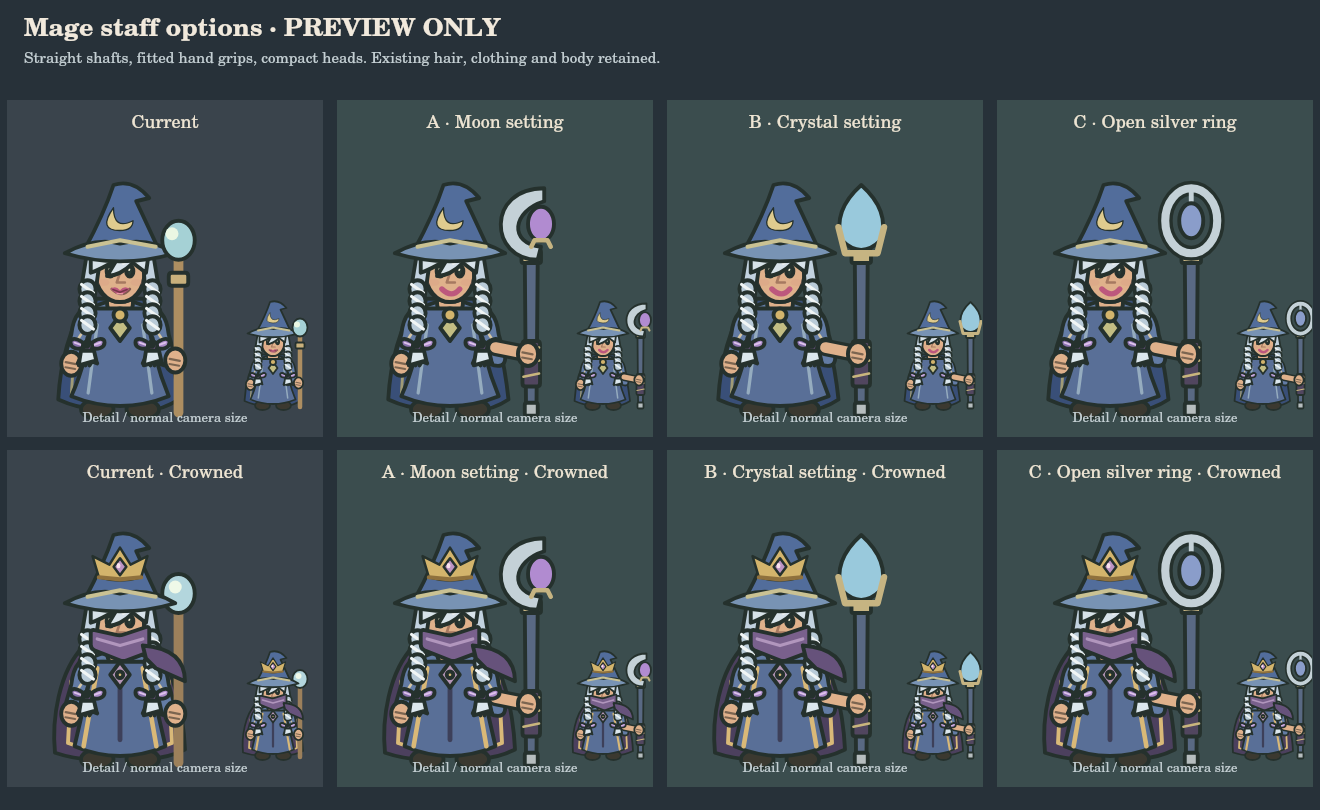
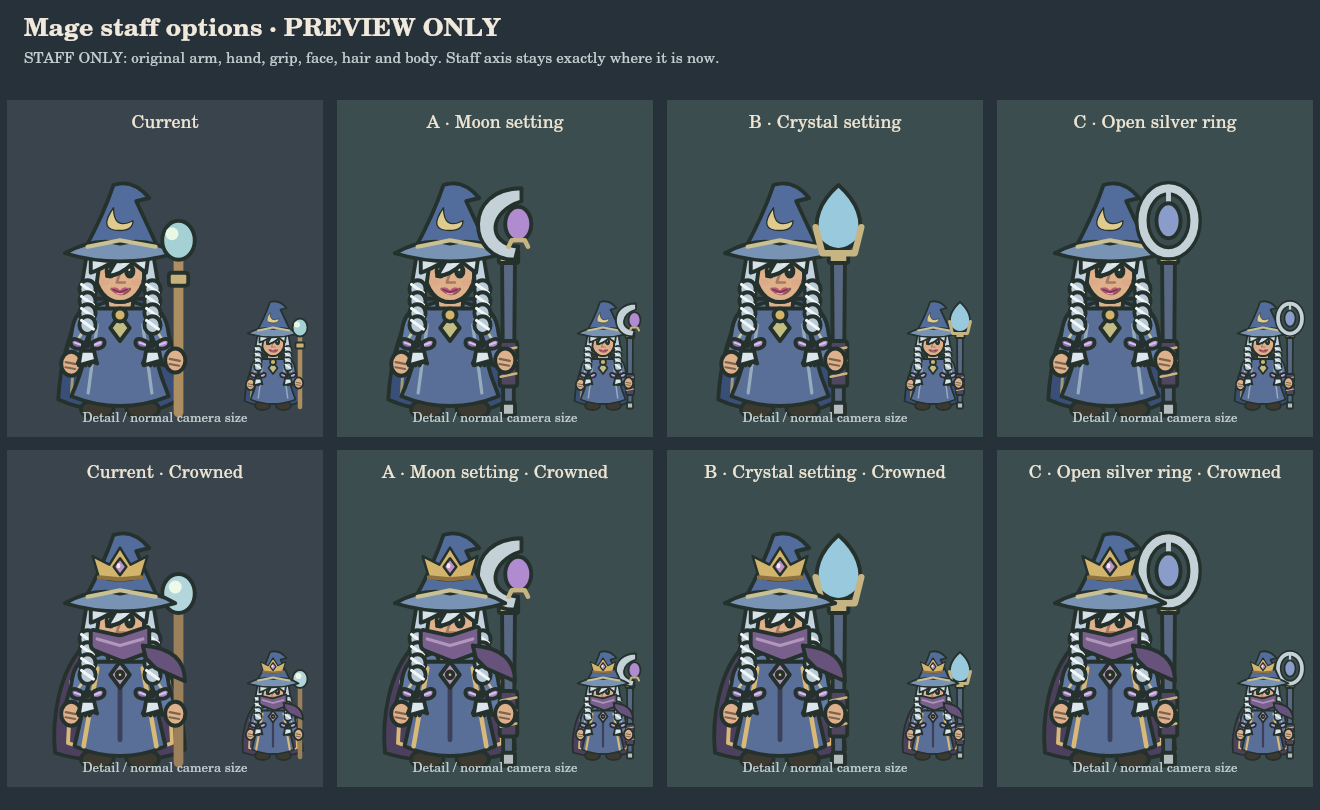
Revise preview lip shapes and keep original arms in staff-only options [skip ci]

diff --git a/tools/visual-review/mouth-staff-preview-20261020/README.md b/tools/visual-review/mouth-staff-preview-20261020/README.md
@@ -2,13 +2,17 @@
 
 Joel reported doubled mouth contours after dev.102 and asked for review before any further character changes or shading. He specifically requested lipstick follow Lyss’s original half-smile and reopened the Mage/Mira staff design.
 
-No runtime, version, assets, deployment or accepted design is changed. The preview script loads the actual procedural painter in isolated VMs and applies candidate replacements only in memory. The live source SHA is recorded in candidate-patches.json. Mouths use a single flat rose stroke along the exact original curve; no second contour, highlight or additional face shading. Veyra’s original straight mouth is similarly recolored. Crowned Mage scarf stays in place. Male faces retain their existing path/color.
+**Current revision after Joel’s review:** The broad colored-line mouth preview was rejected: it erased the shape of real lips. The replacement preview has a tapered cupid’s bow, rounded lower lip and a fine mouth seam that follow the original expression, including Lyss’s raised corner. It skips painting the original mouth entirely. No new facial shading. This revised appearance is still unselected.
+
+Joel also rejected the extended arms. All revised staff options use the original staff axis (x=18) and the exact existing arm/hand/grip code; the body and live dev.102 face stay unchanged. No NPC arms are lengthened. The prior outward-axis staff previews are rejected history in commit f0a51d80da67622c3083f21930ec58bc49332454.
+
+No runtime, version, assets, deployment or accepted design is changed. The preview script loads the actual procedural painter in isolated VMs and applies candidate replacements only in memory. The live source SHA is recorded in candidate-patches.json. The latest mouths use a filled upper/lower lip silhouette, tapered corners and one fine seam along the original expression; no old mouth underneath or extra face shading. Veyra’s original straight mouth is similarly recolored. Crowned Mage scarf stays in place. Male faces retain their existing path/color.
 
 Sheets:
-- mouths-preview.png: original expression / released dev.102 / proposed single colored mouth, including Lyss’s raised right corner. Enlarged face and small whole body beside it.
+- mouths-preview.png: original expression / released dev.102 / revised shaped lips, including Lyss’s raised right corner. Enlarged face and small whole body beside it.
 - mage-staff-preview.png: current plus A Moon setting, B Crystal setting, C Open silver ring; normal/crowned.
 - mira-staff-preview.png: current plus A Leaf crest, B Carved crook, C Amber ring. The instructor’s existing book stays in hand.
 
-These are unselected proposals. Await Joel’s mouth feedback and separate staff selections. Do not change or publish game art before his review. Retain originals and selected violet bows. Staff proposal bodies show the mouth correction for context; it has not been accepted.
+These are unselected proposals. Await Joel’s mouth feedback and separate staff selections. Do not change or publish game art before his review. Retain originals and selected violet bows. Staff proposal bodies keep the live dev.102 mouths, independently of the mouth correction preview.
 
 Additional owner request while preparing these previews: audit Frontier’s diagonal central clutter and underused four edges, propose structure redistribution and extended roads while leaving natural scenery in place; audit modestly expanding Abyss Bastion and clearing enemy/party movement lanes. This work continues independently; no preview acceptance is inferred.

diff --git a/docs/DEVELOPMENT_STATE.md b/docs/DEVELOPMENT_STATE.md
@@ -1,5 +1,7 @@
 # Current development state — 20 October 2026
 
+**Latest preview corrections:** Joel rejected the broad pink mouth-line proposal and the staff previews with extended arms. New previews use shaped upper/lower lips with the original expression and no underlying old mouth; staffs change only equipment at original x=18, retaining exact arms/hands/grips and live faces. All unselected, no runtime edits. Frontier/Abyss audit continues.
+
 **Active preview/audit — 20 October:** Joel reported doubled lips and requested single-mouth coloring along original expressions (especially Lyss), with preview before any character changes or shading; Mage/Mira staff options reopened. Unselected VM-only previews: `tools/visual-review/mouth-staff-preview-20261020/README.md`. No runtime edits or publication. Also audit Frontier central clutter/underused edges with roads and unchanged nature, then modest Abyss Bastion expansion/obstruction relief. Preserve live dev.102 until the relevant scope is ready; character art awaits owner review.
 
 

diff --git a/AGENTS.md b/AGENTS.md
@@ -1,5 +1,7 @@
 # Project working rules
 
+- **Latest preview corrections:** Joel rejected the broad pink mouth-line proposal and the staff previews with extended arms. New previews use shaped upper/lower lips with the original expression and no underlying old mouth; staffs change only equipment at original x=18, retaining exact arms/hands/grips and live faces. All unselected, no runtime edits. Frontier/Abyss audit continues.
+
 - **Active preview/audit — 20 October:** Joel reported doubled lips and requested single-mouth coloring along original expressions (especially Lyss), with preview before any character changes or shading; Mage/Mira staff options reopened. Unselected VM-only previews: `tools/visual-review/mouth-staff-preview-20261020/README.md`. No runtime edits or publication. Also audit Frontier central clutter/underused edges with roads and unchanged nature, then modest Abyss Bastion expansion/obstruction relief. Preserve live dev.102 until the relevant scope is ready; character art awaits owner review.
 
 
